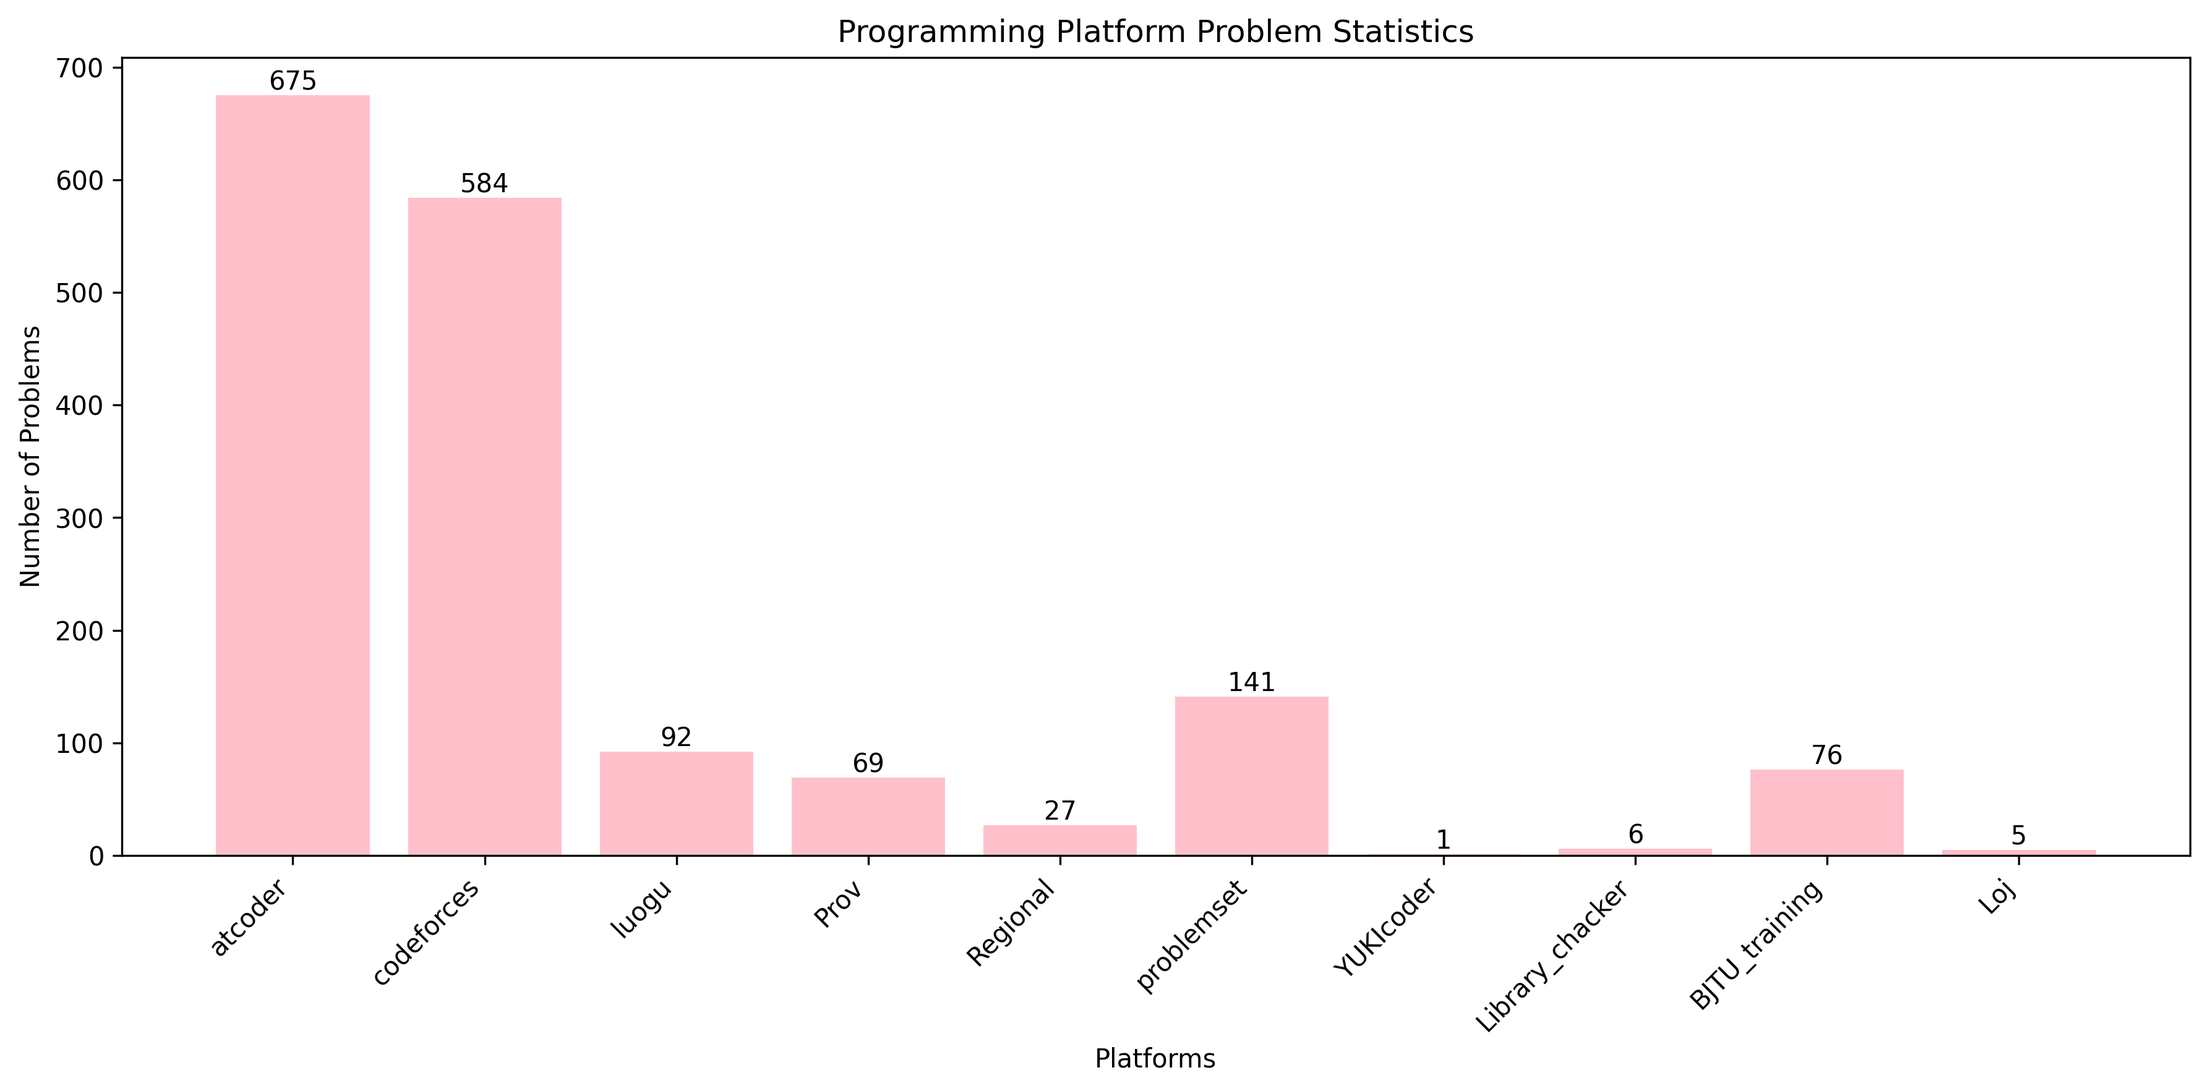
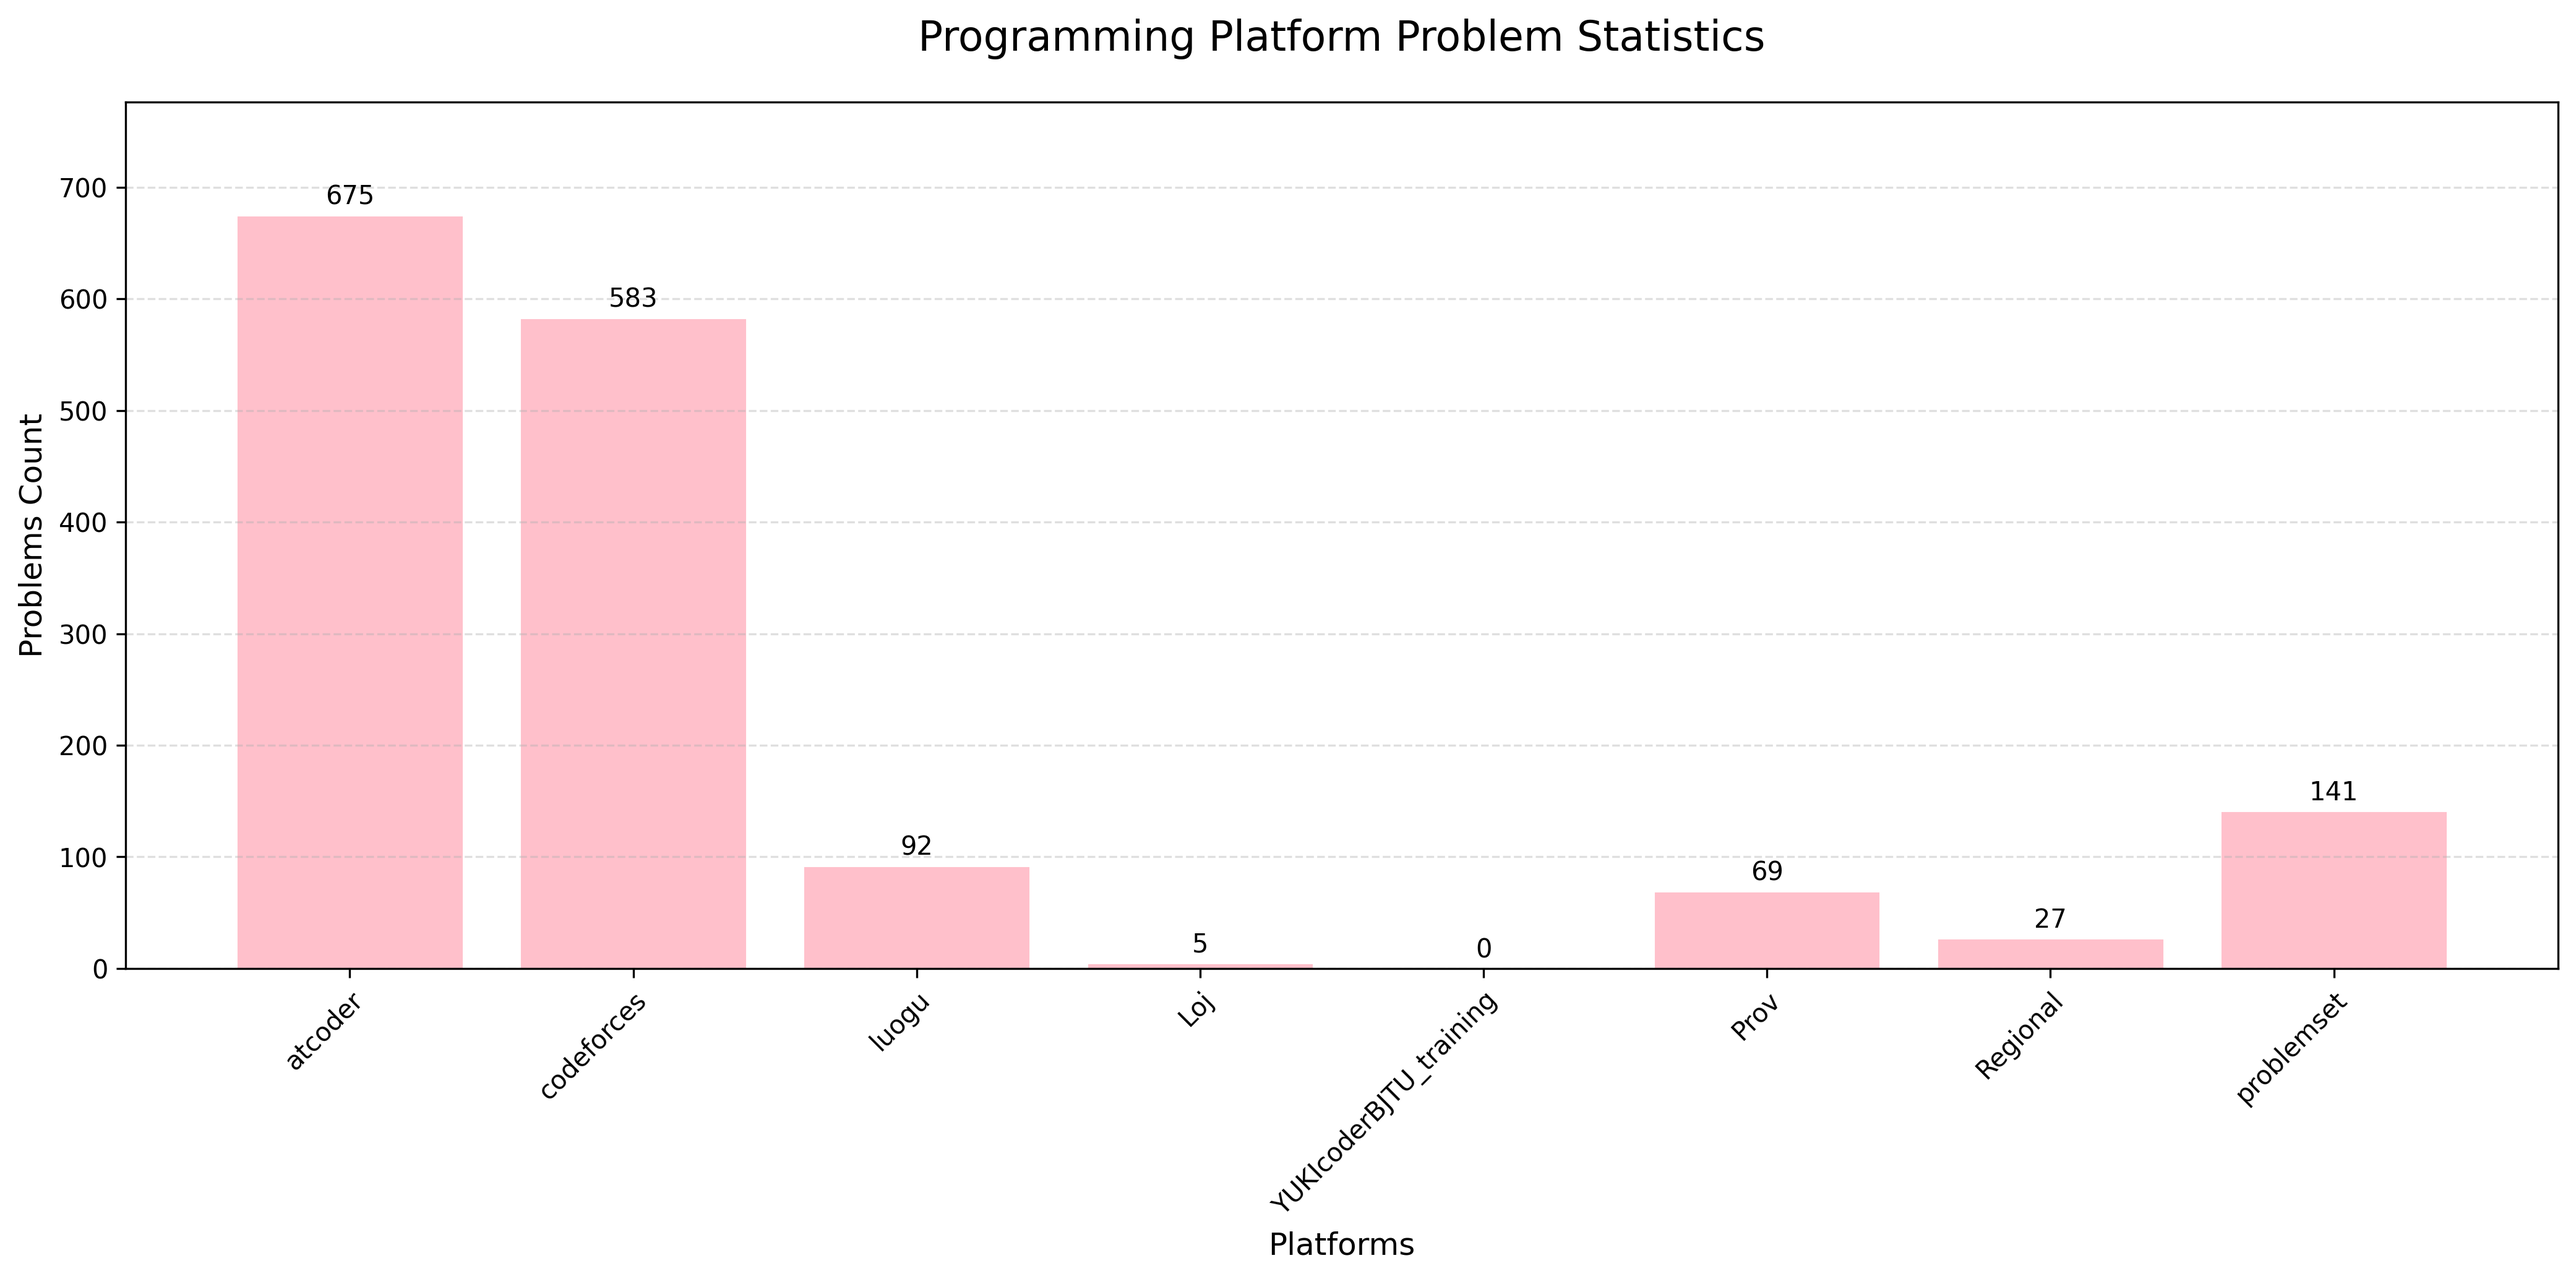
Ciallo～(∠・ω< )⌒★

diff --git a/update_stats.py b/update_stats.py
@@ -1,0 +1,77 @@
+import os
+from datetime import datetime
+
+def count(root='.'):
+    oj_list = [
+        'atcoder',
+        'BJTU_training',
+        'codeforces',
+        'Loj',
+        'luogu',
+        'problemset',
+        'Prov',
+        'Regional',
+        'YUKIcoder'
+    ]
+    res = 0
+    for oj_name in oj_list:
+        path = os.path.join(root, oj_name)
+        s = 0
+        
+        if os.path.isdir(path):
+            for rt, st, file_list in os.walk(path):
+                for name in file_list:
+                    if name.lower().endswith(('.cpp', '.py')):
+                        s += 1
+        res += s
+    
+    return res
+
+def upd(path='Z_pack/z_txt0'):
+    new_t = datetime.now().strftime('%Y/%m/%d')
+    new_mo = datetime.now().strftime('%Y/%m')
+    new_cnt = count()
+
+    # 读取原有内容
+    before = []
+    if os.path.exists(path):
+        with open(path, 'r', encoding='utf-8') as 文件:
+            before = 文件.readlines()
+
+    # 处理内容
+    new_doc = []
+    head = "#### Summary (since 2024/12)\n"
+    
+    # 保留头部
+    if before and before[0].startswith('********'):
+        new_doc.append(before[0])
+    else:
+        new_doc.append(head)
+
+    # 检查当月是否已有记录
+    vis = any(new_mo in Line for Line in before)
+
+    if vis:
+        # 更新当月数据
+        for Line in before[1:]:  # 跳过头部行
+            if Line.startswith('- ') and new_mo in Line:
+                new_doc.append(f"- {new_t}   problems: {new_cnt};\n")
+            elif Line.strip():
+                new_doc.append(Line)
+    else:
+        # 添加新数据（放在头部行之后）
+        new_doc.append(f"- {new_t}   problems: {new_cnt};\n")
+        # 保留旧数据
+        for Line in before[1:]:  # 跳过头部行
+            if Line.startswith('- ') and Line.strip():
+                new_doc.append(Line)
+
+    # 写入文件
+    with open(path, 'w', encoding='utf-8') as 文件:
+        文件.writelines(new_doc)
+
+if __name__ == "__main__":
+    cnt = count()
+    print(f"当前AC题目总数: {cnt}")
+    upd()
+    print("Z_pack/z_txt0 文件已更新！")

diff --git a/gen_chart.py b/gen_chart.py
@@ -1,0 +1,50 @@
+import json
+import matplotlib.pyplot as plt
+import os
+
+def generate_oj_chart(json_path='Z_pack/summary.json', output_path='Z_pack/chart.png'):
+    # Validate and load data
+    if not os.path.exists(json_path):
+        raise FileNotFoundError(f"Error: Statistics file {json_path} not found")
+
+    with open(json_path, 'r', encoding='utf-8') as f:
+        oj_data = json.load(f)
+
+    # Prepare chart data
+    platforms = list(oj_data.keys())
+    problem_counts = list(oj_data.values())
+
+    # Create figure
+    fig, ax = plt.subplots(figsize=(14, 7))
+    bars = ax.bar(platforms, problem_counts, color='#FFC0CB', 
+                 edgecolor='white', linewidth=0.7)
+
+    # Add value labels
+    for bar in bars:
+        height = bar.get_height()
+        ax.text(bar.get_x() + bar.get_width()/2., height + 5,
+                f'{height}',
+                ha='center', va='bottom', fontsize=10)
+
+    # Customize appearance
+    ax.set_title('Programming Platform Problem Statistics', fontsize=16, pad=20)
+    ax.set_xlabel('Platforms', fontsize=12)
+    ax.set_ylabel('Problems Count', fontsize=12)
+    ax.set_ylim(0, max(problem_counts) * 1.15)  # Auto-scale Y-axis
+    ax.grid(axis='y', linestyle='--', alpha=0.4)
+    
+    # Rotate X-axis labels
+    plt.xticks(rotation=45, ha='right', rotation_mode='anchor')
+
+    # Save output
+    plt.tight_layout()
+    plt.savefig(output_path, dpi=300, bbox_inches='tight', transparent=False)
+    print(f"Chart generated: {os.path.abspath(output_path)}")
+
+if __name__ == "__main__":
+    print("waiting...")
+    try:
+        generate_oj_chart()
+        print("Chart generated successfully!")
+    except Exception as e:
+        print(f"Error: {str(e)}")

diff --git a/gen_json.py b/gen_json.py
@@ -1,0 +1,44 @@
+import os
+import json
+from collections import OrderedDict
+
+def f_count(root='.'):
+    oj_list = [
+        'atcoder',
+        'codeforces',
+        'luogu',
+        'Loj',
+        'YUKIcoder'
+        'BJTU_training',
+        'Prov',
+        'Regional',
+        'problemset',
+    ]
+    count = OrderedDict()
+    
+    for oj_name in oj_list:
+        path = os.path.join(root, oj_name)
+        s = 0
+        
+        if os.path.isdir(path):
+            for rt, st, file_list in os.walk(path):
+                for name in file_list:
+                    if name.lower().endswith(('.cpp', '.py')):
+                        s += 1
+        count[oj_name] = s
+    
+    return count
+
+def update_json(out_path='Z_pack/summary.json'):
+    date = f_count()
+    with open(out_path, 'w', encoding='utf-8') as f:
+        json.dump(date, f, indent=4, ensure_ascii=False)
+        
+    print("各OJ题目统计结果：")
+    for oj, cnt in date.items():
+        print(f"{oj}: {cnt}")
+
+if __name__ == "__main__":
+    print("counting...")
+    update_json()
+    print("\nfinished,path: Z_pack/summary.json")

diff --git a/README.md b/README.md
@@ -4,7 +4,7 @@
 
 ## Platform Statistics
 #### Summary (since 2024/12)
-- 2025/04/11   problems: 1676;
+- 2025/04/13   problems: 1669;
 - 2025/03/31   problems: 1514;
 - 2025/02/28   problems: 1096;
 - 2025/01/30   problems: 833;

diff --git a/Lib.md b/Lib.md
@@ -1,0 +1,4 @@
+```sh
+source .venv/bin/activate
+deactivate
+```
